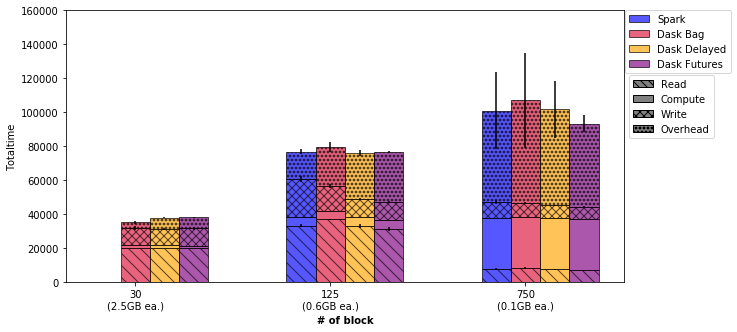
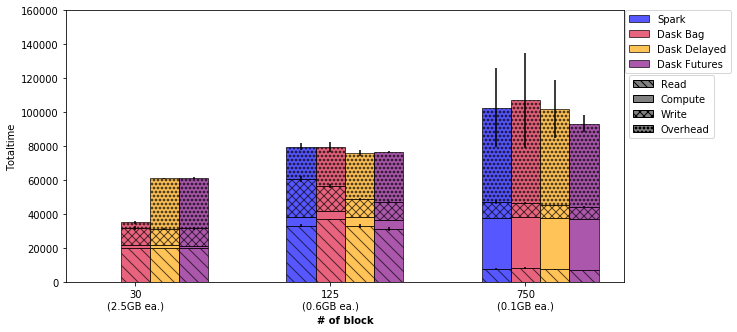
Added new data and updated figures

Changed region(s): [[0.1872, 0.512, 0.2809, 0.6627], [0.3745, 0.4217, 0.4369, 0.4819], [0.6554, 0.3012, 0.6866, 0.3614]]

diff --git a/latex/paper.tex b/latex/paper.tex
@@ -88,13 +88,12 @@ pipelines. Our goal is to test whether Spark or Dask has a clear
 performance advantage to process Big neuroimaging Data. 
 
 %Similarities
-Spark and Dask both offer in-memory computing, data locality, and lazy
-evaluation; which is common for Big Data frameworks. Both their schedulers
-operate dynamically, which is good when task runtimes are not known ahead of
-time~\cite{Dask:15}. They also provide rich, high-level programming APIs,
-and support a variety of infrastructure schedulers, such as Mesos (Spark
-only), YARN, or HPC clusters (Dask only). Over these similarities, the
-frameworks have differences.
+Spark and Dask both offer in-memory computing, data locality, and lazy evaluation;
+which is common for Big Data frameworks. Both their schedulers operate dynamically,
+which is good when task runtimes are not known ahead of time~\cite{Dask:15}. They
+also provide rich, high-level programming APIs, and support a variety of
+infrastructure schedulers, such as Mesos, YARN, or HPC clusters (Dask only). Over
+these similarities, the frameworks have differences.
 
 % Differences
 First and foremost, Spark is written in Scala while Dask is in Python.
@@ -111,7 +110,7 @@ these languages, with reduced performance loss.
 % Related work
 Spark and Dask were both included in the evaluation reported
 in~\cite{Mehta:17} that used a neuroimaging and an astronomy application
-processing approximately 100~GB of data each. In this work, Dask was
+processing approximately \SI{100}{\giga\byte} of data each. In this work, Dask was
 reported to have a slight performance advantage over Spark. Overall, Dask's
 end-to-end time (makespan) was measured to be up to 14\% faster than Spark,
 due to ``more efficient pipelining'' %(Fig 10) 
@@ -397,7 +396,7 @@ adjustment depending on how the overhead is calculate (idle vs wasted)}
     \hline
                         & Incrementation & Histogram             & BIDS Example          \\ \hline
     \# of worker        & 1, 2, 4, 8     & 1, 2, 4, 8            & 1, 2, 4, 8            \\
-    \# of blocks        & 30, 125, 750   & 30, 125, 750          & 30, 125, 750          \\
+    \# of blocks        & 30, 125, 750   & 30, 125, 750          & \multicolumn{1}{c}{-} \\
     \# of iterations    & 1, 10, 100     & \multicolumn{1}{c}{-} & \multicolumn{1}{c}{-} \\
     Sleep delay {[}\SI{}{\second}{]} & 1, 4, 16, 64   & \multicolumn{1}{c}{-} & \multicolumn{1}{c}{-} \\ \hline
     \end{tabular*}
